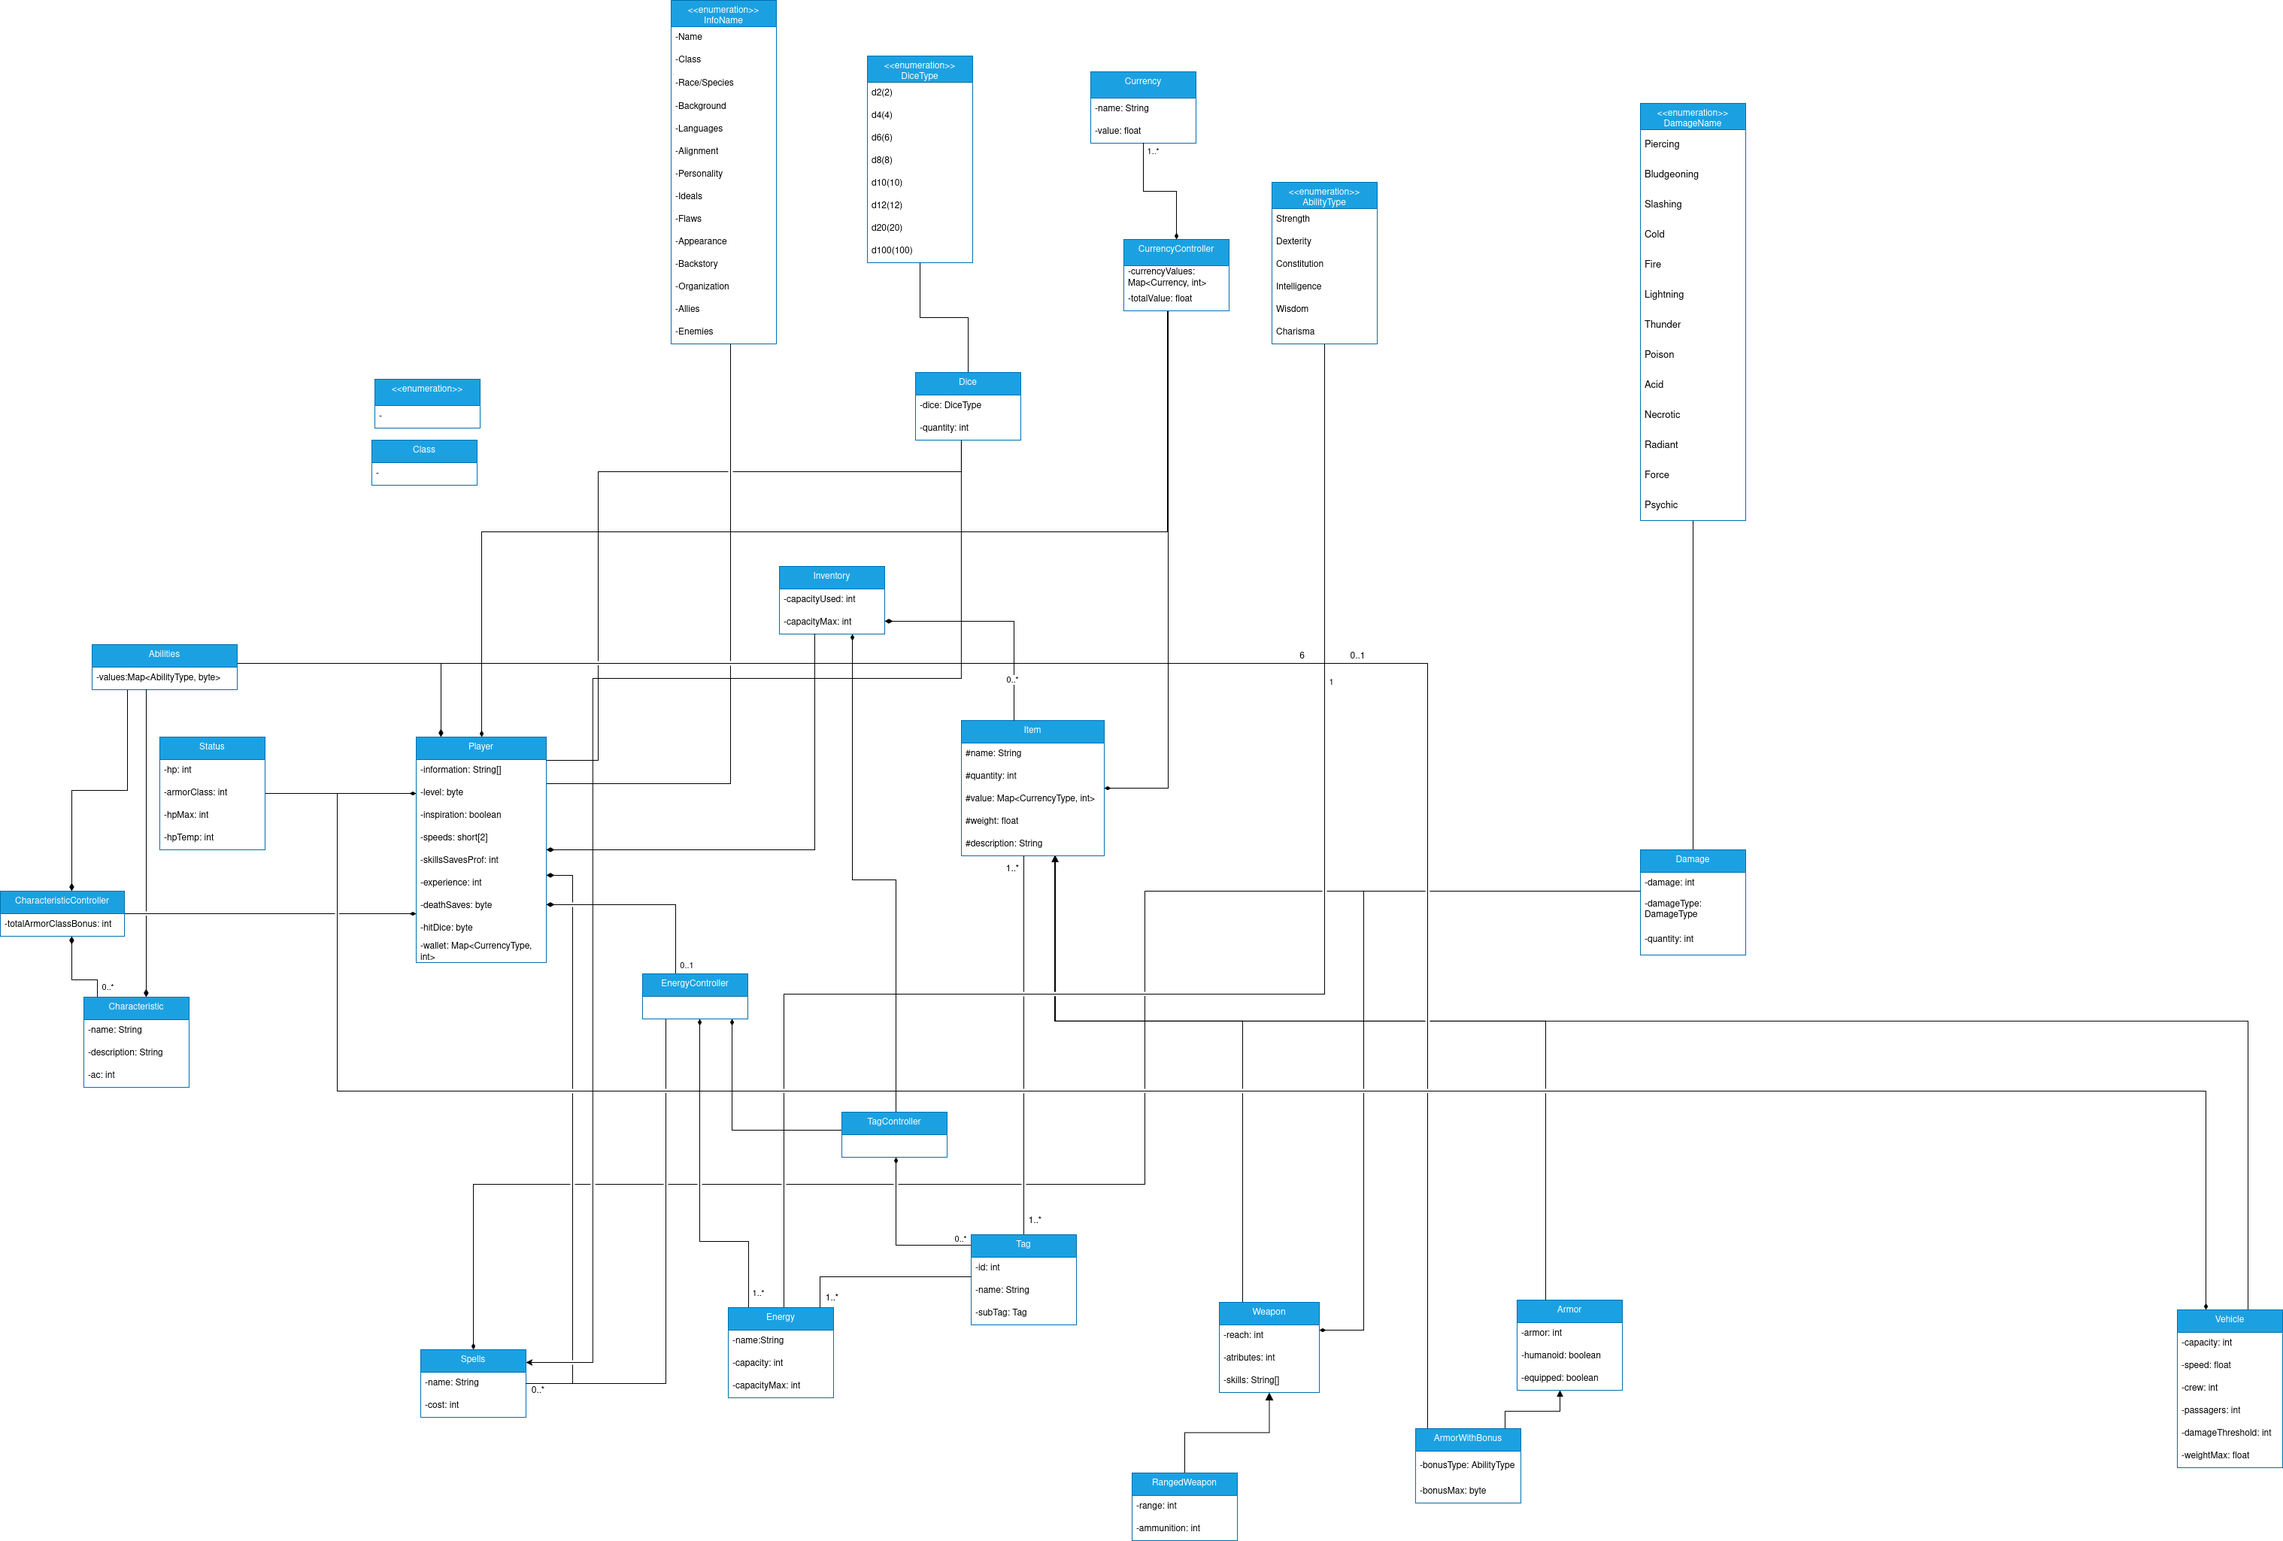
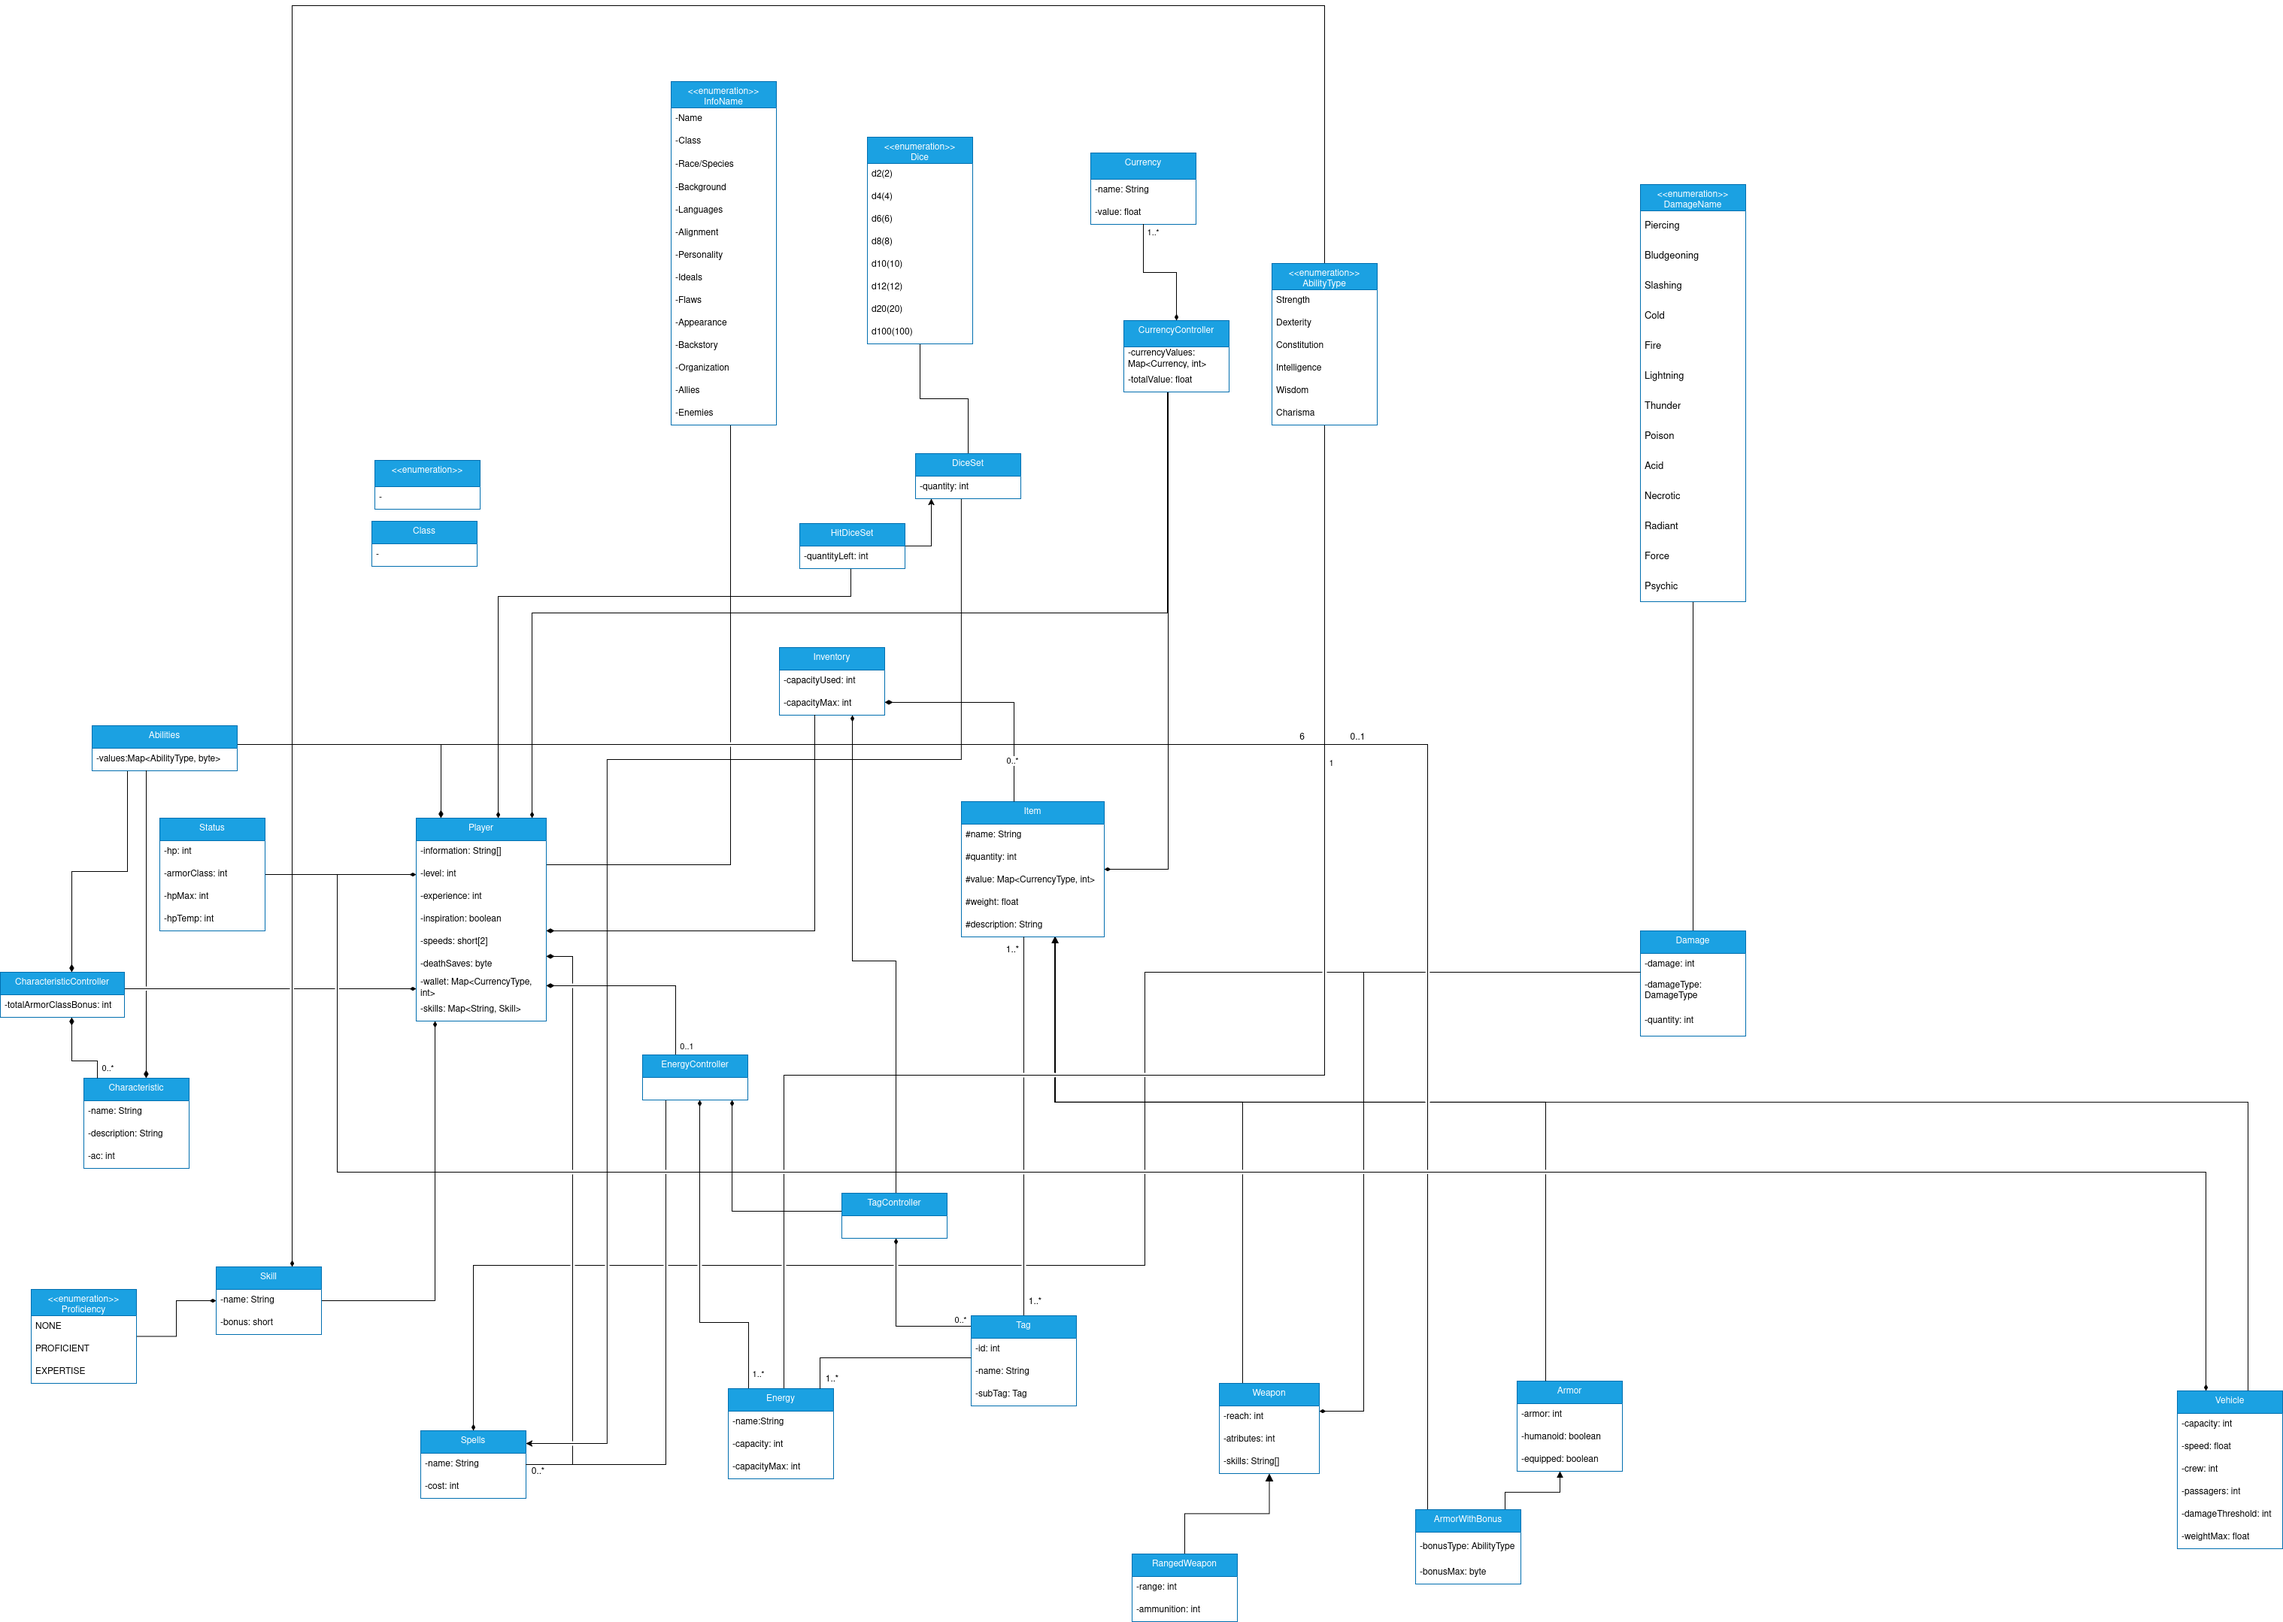
Added Player entity (partial) and remade diagram
Proficiency type EXPERT changed to EXPERTISE

diff --git a/src/main/java/a4g/rpgs/entity/type/Player.java b/src/main/java/a4g/rpgs/entity/type/Player.java
@@ -1,0 +1,185 @@
+package a4g.rpgs.entity.type;
+
+import a4g.rpgs.constraints.Validate;
+import a4g.rpgs.entity.common.data.models.Skill;
+import a4g.rpgs.essentials.HitDiceSet;
+
+import java.util.HashMap;
+import java.util.List;
+import java.util.Map;
+
+public class Player {
+    private Integer level;
+    private Integer experience;
+    private Boolean inspiration;
+    private HashMap<String, Skill> skills;
+    private Byte deathSaves;
+    private HitDiceSet hitDice;
+
+    private static final byte SUCCESS_OFFSET = 1;
+    private static final byte FAILURE_OFFSET = 4;
+    private static final byte DEATH_SAVE_MASK = 0b111;
+    private static final byte KEEP_FAIL_MASK = 0b1;
+
+    public Player() {}
+
+    public Player(int level, int experience, boolean inspiration, List<Skill> skills, byte deathSaves, HitDiceSet hitDiceSet) throws IllegalArgumentException {
+        this.level = Validate.isPositive(level, "Level");
+        this.experience = Validate.isPositiveOrZero(experience,"Experience");
+        this.inspiration = inspiration;
+        this.skills = new HashMap<>();
+        Validate.isNotEmpty(skills, "Skill proficiencies").forEach(skill -> this.skills.put(skill.getName(),skill));
+        this.deathSaves = deathSaves;
+        this.hitDice = Validate.isNotNull(hitDiceSet, "Hit Dice set");
+    }
+
+    public Integer getLevel() {
+        return level;
+    }
+    public void setLevel(int level) throws IllegalArgumentException {
+        this.level = Validate.isPositive(level, "Level");
+    }
+
+    public Integer getExperience() {
+        return experience;
+    }
+    public void setExperience(int experience) throws IllegalArgumentException {
+        this.experience = Validate.isPositiveOrZero(experience,"Experience");
+    }
+
+    public Boolean isInspired() {
+        return inspiration;
+    }
+    public void setInspiration(boolean inspiration) {
+        this.inspiration = inspiration;
+    }
+
+    public Map<String, Skill> getSkills() {
+        if (skills == null)
+            return null;
+        return new HashMap<>(skills);
+    }
+    public void setSkills(List<Skill> skills) throws IllegalArgumentException {
+        Validate.isNotEmpty(skills, "Skills");
+        this.skills = new HashMap<>();
+        skills.forEach(skill -> this.skills.put(skill.getName(),skill));
+    }
+    public void addAllSkillProficiency(List<Skill> skillProficiencies) throws IllegalArgumentException {
+        if (this.skills == null)
+            this.skills = new HashMap<>();
+        Validate.isNotNull(skillProficiencies, "Skill").forEach(skill ->  this.skills.remove(skill.getName()));
+    }
+    public void removeAllSkillProficiency(List<Skill> skillProficiencies) throws IllegalArgumentException {
+        if (skillProficiencies == null)
+            return;
+        Validate.isNotNull(skillProficiencies, "Skill").forEach(skill ->  this.skills.remove(skill.getName()));
+    }
+
+    public Skill getSkillProficiency(String skillName) {
+        if (skills == null)
+            return null;
+        return skills.get(skillName);
+    }
+    public void addSkillProficiency(Skill skillProficiency) throws IllegalArgumentException {
+        if (skills == null)
+            skills = new HashMap<>();
+        skills.put(Validate.isNotNull(skillProficiency, "Skill").getName(), skillProficiency);
+    }
+    public void removeSkillProficiency(Skill skillProficiency) throws IllegalArgumentException {
+        if (skills == null)
+            return;
+        skills.remove(Validate.isNotNull(skillProficiency, "Skill").getName());
+    }
+
+    public Byte getDeathSaves() {
+        return deathSaves;
+    }
+    public Byte getDeathSaveFailures() {
+        if (deathSaves == null) return null;
+        return (byte) (deathSaves >> FAILURE_OFFSET & DEATH_SAVE_MASK);
+    }
+    public Byte getDeathSaveSuccesses() {
+        if (deathSaves == null) return null;
+        return (byte) (deathSaves >> SUCCESS_OFFSET & DEATH_SAVE_MASK);
+    }
+    public boolean isDeathSaveFailurePersistent() {
+        if (deathSaves == null) return false;
+        return (deathSaves & KEEP_FAIL_MASK) != 0;
+    }
+
+    public void setDeathSaves(byte deathSaves) throws IllegalArgumentException {
+        this.deathSaves = Validate.isPositiveOrZero(deathSaves, "Death/Save throws");
+    }
+    public void setKeepFails(boolean enableFails) {
+        if (deathSaves == null)
+            deathSaves = 0;
+
+        if (enableFails)
+            deathSaves = (byte) (deathSaves | KEEP_FAIL_MASK);
+        else
+            deathSaves = (byte) (deathSaves & ~KEEP_FAIL_MASK);
+    }
+    public void addDeathSaveFailure() {
+        if (deathSaves == null)
+            deathSaves = 0;
+
+        for (int i = 0; i < 3; i++) {
+            if ((deathSaves >> (FAILURE_OFFSET + i) & DEATH_SAVE_MASK) == 0) {
+                deathSaves = (byte) (deathSaves | (0b1 << (FAILURE_OFFSET + i)));
+                break;
+            }
+        }
+    }
+    public void addDeathSaveSuccess() {
+        if (deathSaves == null)
+            deathSaves = 0;
+
+        for (int i = 0; i < 3; i++) {
+            if ((deathSaves >> (SUCCESS_OFFSET + i) & DEATH_SAVE_MASK) == 0) {
+                deathSaves = (byte) (deathSaves | (0b1 << (SUCCESS_OFFSET + i)));
+                break;
+            }
+        }
+    }
+    public void clearDeathSaves() {
+        if (deathSaves == null){
+            deathSaves = 0;
+            return;
+        }
+
+        if ((deathSaves & KEEP_FAIL_MASK) == 0 || (deathSaves >> FAILURE_OFFSET & DEATH_SAVE_MASK) == DEATH_SAVE_MASK) {
+            deathSaves = (byte) (deathSaves & KEEP_FAIL_MASK);
+            return;
+        }
+        deathSaves = (byte) (deathSaves & 0b111_000_1);
+    }
+
+
+    public HitDiceSet getHitDice() {
+        if (hitDice == null)
+            return null;
+
+        return new HitDiceSet(hitDice);
+    }
+    public void setHitDiceSet(HitDiceSet hitDiceSet) throws IllegalArgumentException {
+        this.hitDice = Validate.isNotNull(hitDiceSet, "Hit Dice set");
+    }
+    public int useHitDice(int quantity) throws IllegalArgumentException, IllegalStateException {
+        if (hitDice == null)
+            throw new IllegalStateException("The hit dice set has not been set yet");
+
+        return hitDice.decreaseQuantityLeft(quantity);
+    }
+    public int useHitDice() throws IllegalStateException {
+        if (hitDice == null)
+            throw new IllegalStateException("The hit dice set has not been set yet");
+
+        return hitDice.decreaseQuantityLeft();
+    }
+    public int recoverAllHitDice() throws IllegalStateException {
+        if (hitDice == null)
+            throw new IllegalStateException("The hit dice set has not been set yet");
+
+        return hitDice.resetQuantityLeft();
+    }
+}

diff --git a/src/test/java/entity/type/PlayerTest.java b/src/test/java/entity/type/PlayerTest.java
@@ -1,0 +1,150 @@
+package entity.type;
+
+
+import a4g.rpgs.entity.common.data.models.Abilities;
+import a4g.rpgs.entity.common.data.models.Skill;
+import a4g.rpgs.entity.type.Player;
+import a4g.rpgs.essentials.DiceSet;
+import a4g.rpgs.essentials.HitDiceSet;
+import org.junit.jupiter.api.Assertions;
+import org.junit.jupiter.api.BeforeEach;
+import org.junit.jupiter.api.Test;
+
+import java.util.ArrayList;
+import java.util.List;
+
+public class PlayerTest {
+    Player testPlayer = null;
+
+    @BeforeEach
+    void setUp() {
+        testPlayer = new Player();
+    }
+
+
+    @Test
+    void playerLazyInitiate() {
+        Assertions.assertNull(testPlayer.getLevel());
+        Assertions.assertNull(testPlayer.getExperience());
+        Assertions.assertNull(testPlayer.isInspired());
+        Assertions.assertNull(testPlayer.getSkills());
+        Assertions.assertNull(testPlayer.getDeathSaves());
+        Assertions.assertNull(testPlayer.getDeathSaveFailures());
+        Assertions.assertNull(testPlayer.getDeathSaveSuccesses());
+        Assertions.assertNull(testPlayer.getHitDice());
+    }
+
+    @Test
+    void levelIsPositive() {
+        Assertions.assertDoesNotThrow(() -> testPlayer.setLevel(1));
+        Assertions.assertThrows(IllegalArgumentException.class, () -> testPlayer.setLevel(0));
+    }
+
+    @Test
+    void experienceIsPositiveOrZero() {
+        Assertions.assertDoesNotThrow(() -> testPlayer.setExperience(0));
+        Assertions.assertThrows(IllegalArgumentException.class, () -> testPlayer.setExperience(-1));
+    }
+
+    @Test
+    void skillProficienciesAreNotEmpty() {
+        List<Skill> skills = List.of(
+                new Skill("Strength", Skill.Proficiency.PROFICIENT, Abilities.Type.STRENGTH, (short) 2),
+                new Skill("Dexterity", Skill.Proficiency.NONE, Abilities.Type.DEXTERITY, (short) 0)
+        );
+
+        Assertions.assertDoesNotThrow(() -> testPlayer.setSkills(skills));
+        Assertions.assertThrows(IllegalArgumentException.class,() -> testPlayer.setSkills(new ArrayList<>()));
+    }
+    @Test
+    void addSkillProficiencyWorks() {
+        Skill skill = new Skill("Stealth", Skill.Proficiency.PROFICIENT, Abilities.Type.DEXTERITY, (short) 2);
+        Assertions.assertDoesNotThrow(() -> testPlayer.addSkillProficiency(skill));
+        Assertions.assertEquals(skill, testPlayer.getSkillProficiency("Stealth"));
+    }
+
+    @Test
+    void removeSkillProficiencyWorks() {
+        Skill skill = new Skill("Stealth", Skill.Proficiency.PROFICIENT, Abilities.Type.DEXTERITY, (short) 2);
+        testPlayer.addSkillProficiency(skill);
+        testPlayer.removeSkillProficiency(skill);
+        Assertions.assertNull(testPlayer.getSkillProficiency("Stealth"));
+    }
+
+    @Test
+    void addDeathSaveFailureWorks() {
+        testPlayer.addDeathSaveFailure();
+        Assertions.assertEquals((byte) 1, testPlayer.getDeathSaveFailures());
+    }
+
+    @Test
+    void addDeathSaveSuccessWorks() {
+        testPlayer.addDeathSaveSuccess();
+        Assertions.assertEquals((byte) 1, testPlayer.getDeathSaveSuccesses());
+    }
+
+    @Test
+    void clearDeathSavesWorks() {
+        testPlayer.addDeathSaveFailure();
+        testPlayer.addDeathSaveSuccess();
+        testPlayer.clearDeathSaves();
+        Assertions.assertEquals((byte) 0, testPlayer.getDeathSaveFailures());
+        Assertions.assertEquals((byte) 0, testPlayer.getDeathSaveSuccesses());
+    }
+
+    @Test
+    void setKeepFailsWorks() {
+        testPlayer.setKeepFails(true);
+        Assertions.assertTrue(testPlayer.isDeathSaveFailurePersistent());
+
+        testPlayer.setKeepFails(false);
+        Assertions.assertFalse(testPlayer.isDeathSaveFailurePersistent());
+    }
+
+    @Test
+    void clearDeathSavesKeepsFailuresIfPersistent() {
+        testPlayer.setKeepFails(true);
+        testPlayer.addDeathSaveFailure();
+        testPlayer.clearDeathSaves();
+        Assertions.assertEquals((byte) 1, testPlayer.getDeathSaveFailures()); // Failures should persist
+    }
+
+    @Test
+    void clearDeathSavesRemovesFailuresIfAllThreeAreSet() {
+        testPlayer.addDeathSaveFailure();
+        testPlayer.addDeathSaveFailure();
+        testPlayer.addDeathSaveFailure();
+        testPlayer.clearDeathSaves();
+        Assertions.assertEquals((byte) 0, testPlayer.getDeathSaveFailures()); // Should reset completely
+    }
+
+    @Test
+    void useHitDiceReducesQuantity() {
+        testPlayer.setHitDiceSet(new HitDiceSet(DiceSet.Dice.D8, 4));
+        int initialQuantity = testPlayer.getHitDice().getQuantityLeft();
+        Assertions.assertEquals(initialQuantity - 1, testPlayer.useHitDice());
+    }
+
+    @Test
+    void useMultipleHitDiceReducesQuantity() {
+        testPlayer.setHitDiceSet(new HitDiceSet(DiceSet.Dice.D8, 4));
+        int initialQuantity = testPlayer.getHitDice().getQuantityLeft();
+
+        testPlayer.useHitDice(2);
+        Assertions.assertEquals(initialQuantity - 2, testPlayer.getHitDice().getQuantityLeft());
+    }
+
+    @Test
+    void recoverAllHitDiceRestoresQuantity() {
+        testPlayer.setHitDiceSet(new HitDiceSet(DiceSet.Dice.D8, 4));
+        testPlayer.useHitDice(2);
+        testPlayer.recoverAllHitDice();
+        Assertions.assertEquals(testPlayer.getHitDice().getQuantity(), testPlayer.getHitDice().getQuantityLeft());
+    }
+
+    @Test
+    void useHitDiceThrowsIfNoneLeft() {
+        testPlayer.setHitDiceSet(new HitDiceSet(DiceSet.Dice.D8, 4));
+        Assertions.assertThrows(IllegalStateException.class, () -> testPlayer.useHitDice(5));
+    }
+}

diff --git a/src/main/java/a4g/rpgs/entity/common/data/models/Skill.java b/src/main/java/a4g/rpgs/entity/common/data/models/Skill.java
@@ -46,6 +46,6 @@ public class Skill {
     public enum Proficiency {
         NONE,
         PROFICIENT,
-        EXPERT
+        EXPERTISE
     }
 }
